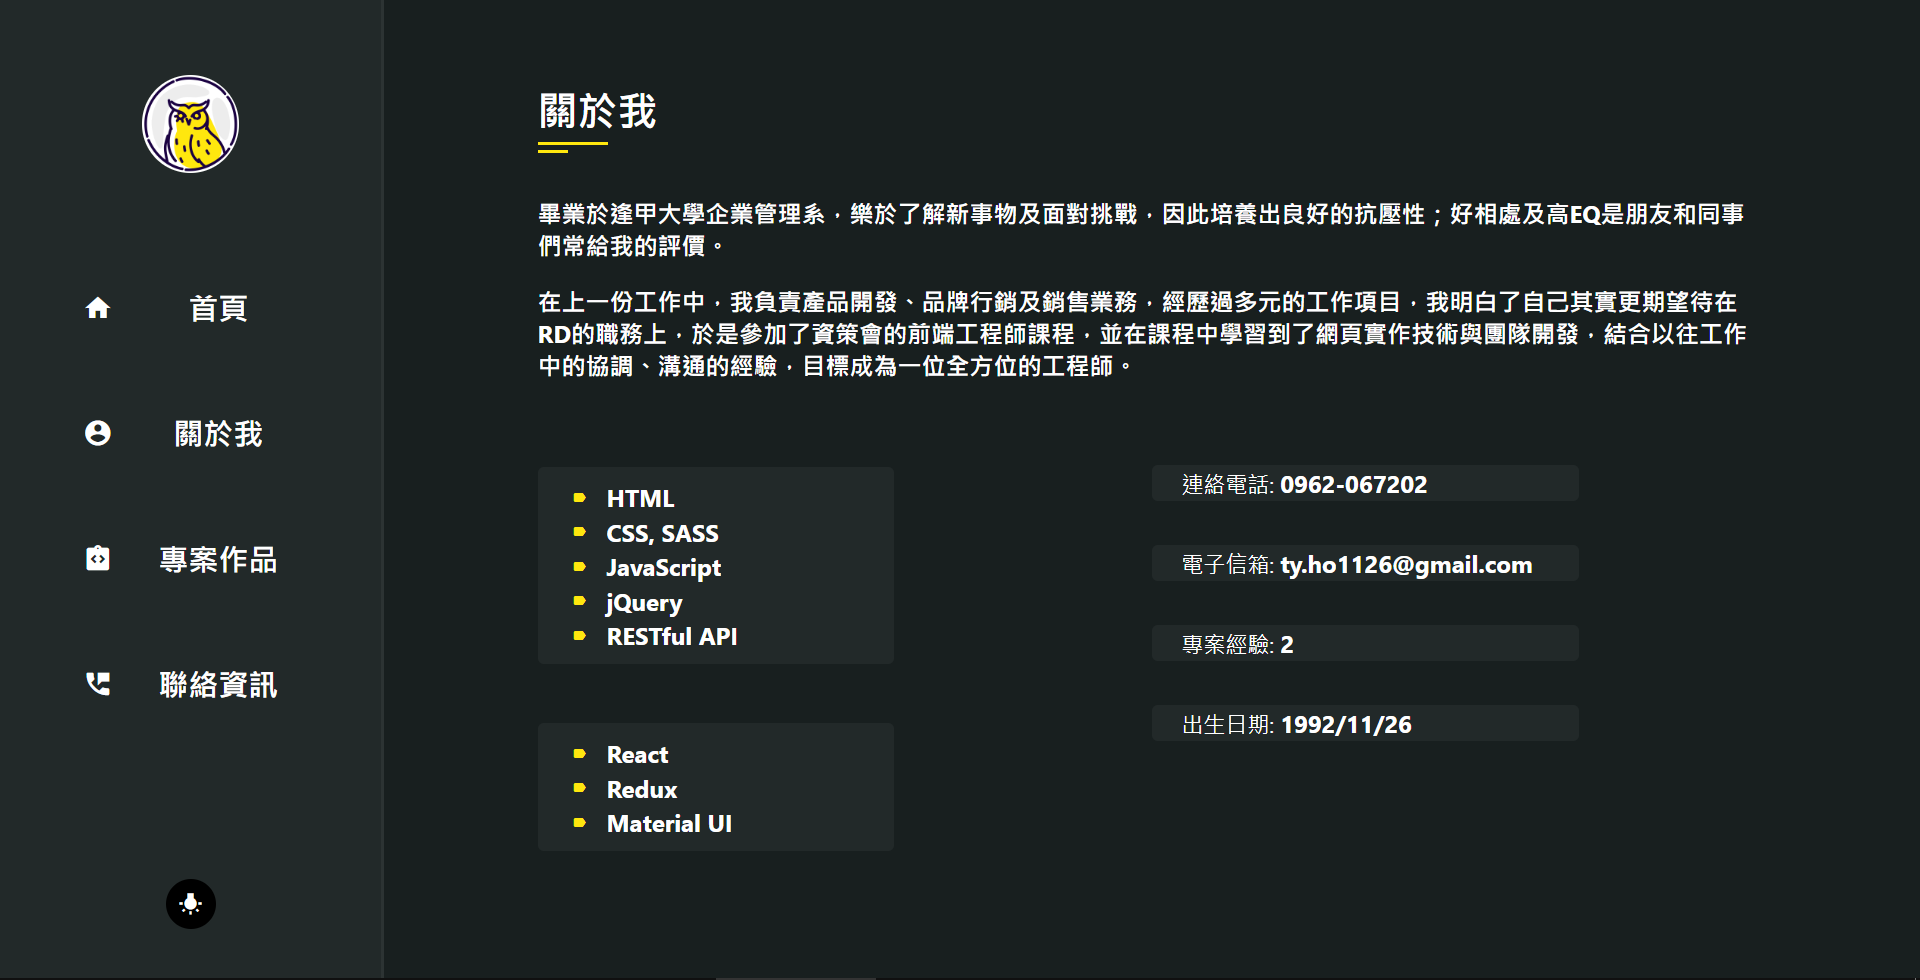
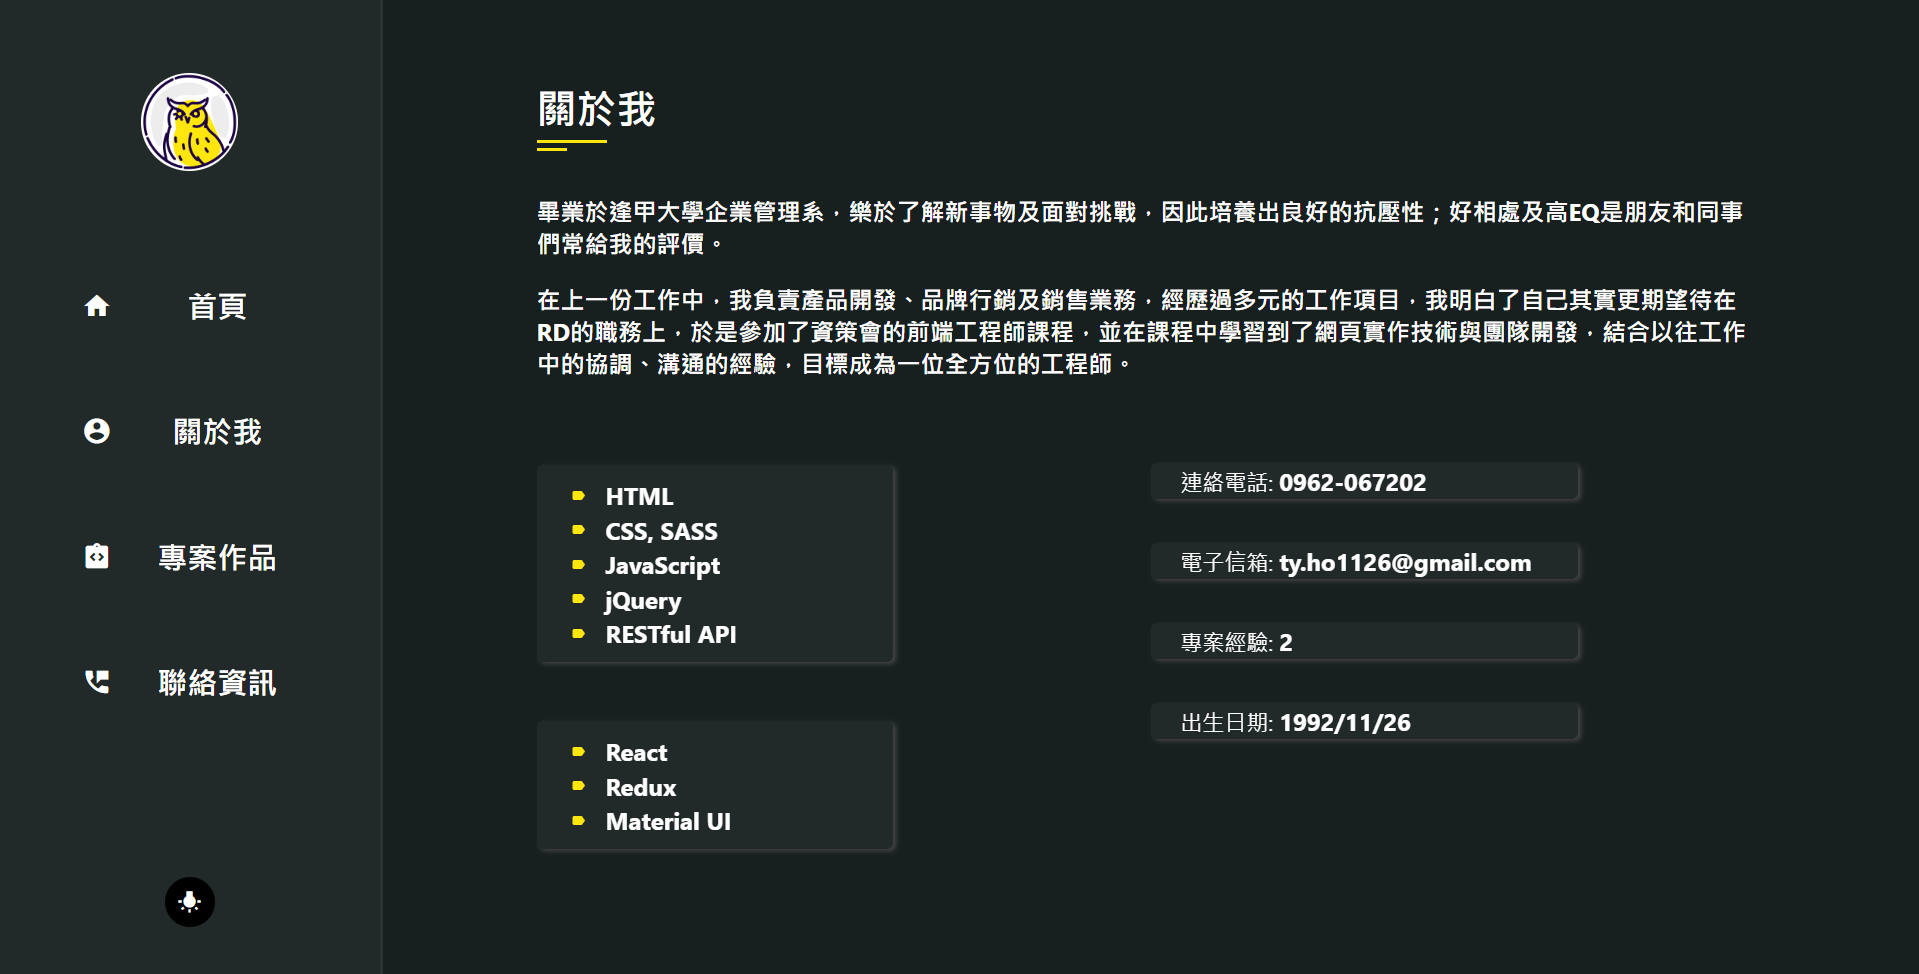
0919

diff --git a/src/pages/portfolio/portfolio.jsx b/src/pages/portfolio/portfolio.jsx
@@ -20,7 +20,7 @@ const Portfolio = () => {
     title: "個人網站",
     description:
       "以React架構來規劃一頁式個人網站。",
-    feature: "一頁式網站、React、一鍵切換網站配色" ,
+    feature: "一頁式網站、React、一鍵切換網站配色、網站導覽" ,
     img_path_1: "img/portfolio/personal_website/home.png",
     img_path_2: "img/portfolio/personal_website/about.png",
     img_path_3: "img/portfolio/personal_website/portfolio.png",

diff --git a/src/pages/navigation/navigation.jsx b/src/pages/navigation/navigation.jsx
@@ -2,7 +2,7 @@ import "./navigation.scss";
 
 const Navigation = ({ setPage, theme, setTheme }) => {
   return (
-    <div id="navigation">
+    <div id="navigation" className="mask">
       {/* google icon */}
       <link
         href="https://fonts.googleapis.com/icon?family=Material+Icons"
